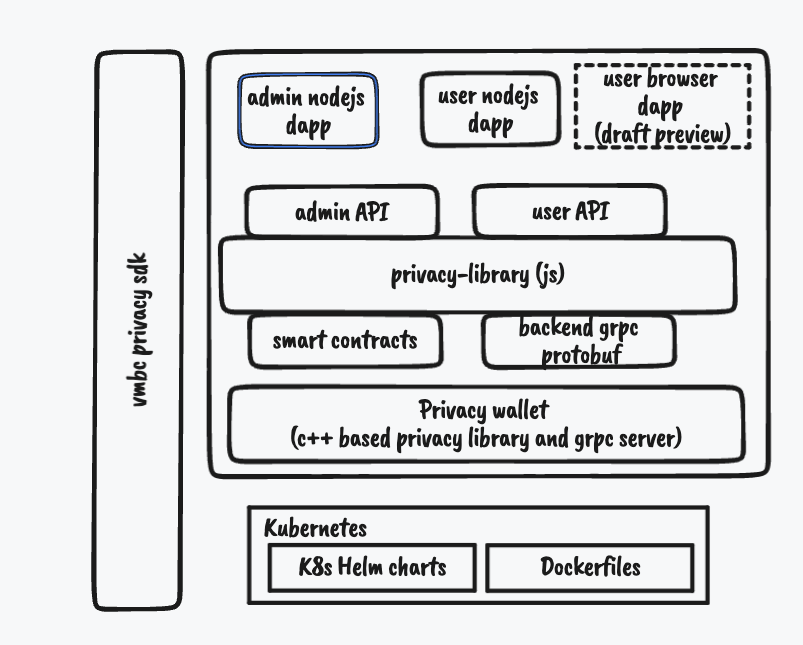
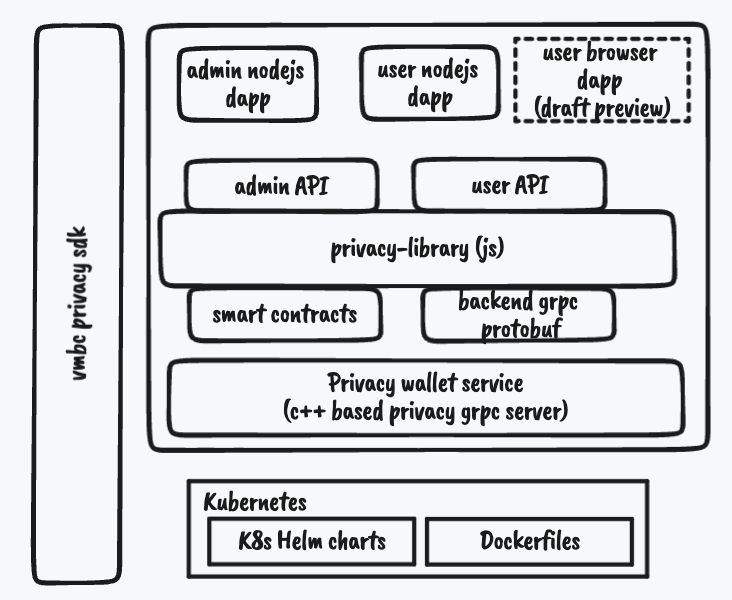
sync with updates

Changed region(s): [[0.0301, 0.03, 0.9918, 0.99]]

diff --git a/vmbc-ethereum/privacy/Readme.md b/vmbc-ethereum/privacy/Readme.md
@@ -12,18 +12,19 @@ The SDK currently provides a sample NodeJS based DAPP implementation. Future ver
 ## Node-JS based DAPP
 ![NodeJS DAPP](./docs/sdk-components.png)
 ### NODEJS App overview
-Sample NodeJS DAPP are build using [privacy wallet library](privacy-lib/privacy-wallet.js). 
+The sample NodeJS dApps are build using [privacy library](privacy-lib/), which is a JavaScript convenience interface to the Privacy Wallet Service. The [Privacy wallet service](https://github.com/vmware/concord-bft/tree/master/utt/privacy-wallet-service) holds all sensitive assets, including privacy keys and tokens. It is essentially a GRPC server and the IDL is specified under [wallet-api.proto](https://github.com/vmware/concord-bft/blob/master/utt/privacy-wallet-service/proto/api/v1/wallet-api.proto).
+
+The Node Administrator dApp and the Node User dApp are samples - VMware Blockchain customers will likely change them in order to create their own privacy applications. The privacy wallet service and the privacy library are not expected to be changed by customers.
 
 | DAPP  | Remark | Location | Docker File | 
 | ------------- | ------------- | ------------- |------------- |
 | Node Administrator DAPP  | NodeJS based administrator DAPP  | [Admin-Node-DAPP](./admin-dapp/privacy-admin-dapp.js) | [DockerfileAdminDApp](./docker/DockerfileAdminDApp) |
 | Node User DAPP  | NodeJS based user DAPP  | [User-Node-DAPP](./user-dapp/privacy-user-dapp.js) | [DockerfileUserDApp](./docker/DockerfileUserDApp) |
-| Privacy wallet service | utt wallet | [Privacy wallet service](https://github.com/vmware/concord-bft/tree/master/utt/privacy-wallet-service) | [DockerfilePrivacyService](./docker/DockerfilePrivacyService) |
+| Privacy wallet service | Privacy wallet with support for private tokens | [Privacy wallet service](https://github.com/vmware/concord-bft/tree/master/utt/privacy-wallet-service) | [DockerfilePrivacyService](./docker/DockerfilePrivacyService) |
 
-The companion **privacy wallet service** is essentially the UTT(C++) service that aids with supporting UTT. All the DAPP inturn use this service as backend. The source code of this service is under github open source library. This service can be considered as privacy wallet and holds all sensitive assets including privacy keys and tokens.
+The administartor DAPP is build with [Admin API](privacy-lib/privacy-admin-wallet.js) of privacy library and smart contract API.
 
-[Privacy wallet service](https://github.com/vmware/concord-bft/tree/master/utt/privacy-wallet-service)
-This is a GRPC server in essence and the IDL is specified under [wallet-api.proto](https://github.com/vmware/concord-bft/blob/master/utt/privacy-wallet-service/proto/api/v1/wallet-api.proto).
+The user DAPP is build with the [user API](privacy-lib/privacy-wallet.js) of privacy library and smart contract API.
 
  #### Smart contracts
  SDK includes:
@@ -32,7 +33,7 @@ This is a GRPC server in essence and the IDL is specified under [wallet-api.prot
  | Privacy Token  | Privacy token transfer based smart contract | [PrivateToken.sol](./privacy-lib/contracts/PrivateToken.sol) | 
  | Public Token  | Public token transfer based smart contract | [PublicToken.sol](./privacy-lib/contracts/PublicToken.sol) | 
 
-These can be used as reference companion.
+Some portions of the Privacy Token contract, such as the registration flow, may be changed, but the rest is expected to be used as-is. The Public Token contract can be changed, but the convertPublicToPrivate and convertPrivateToPublic functions must remain.
 ## Browser based DAPP
 SDK will soon support web browser based DAPP sample implementation.
 The draft sources are available for reference.
